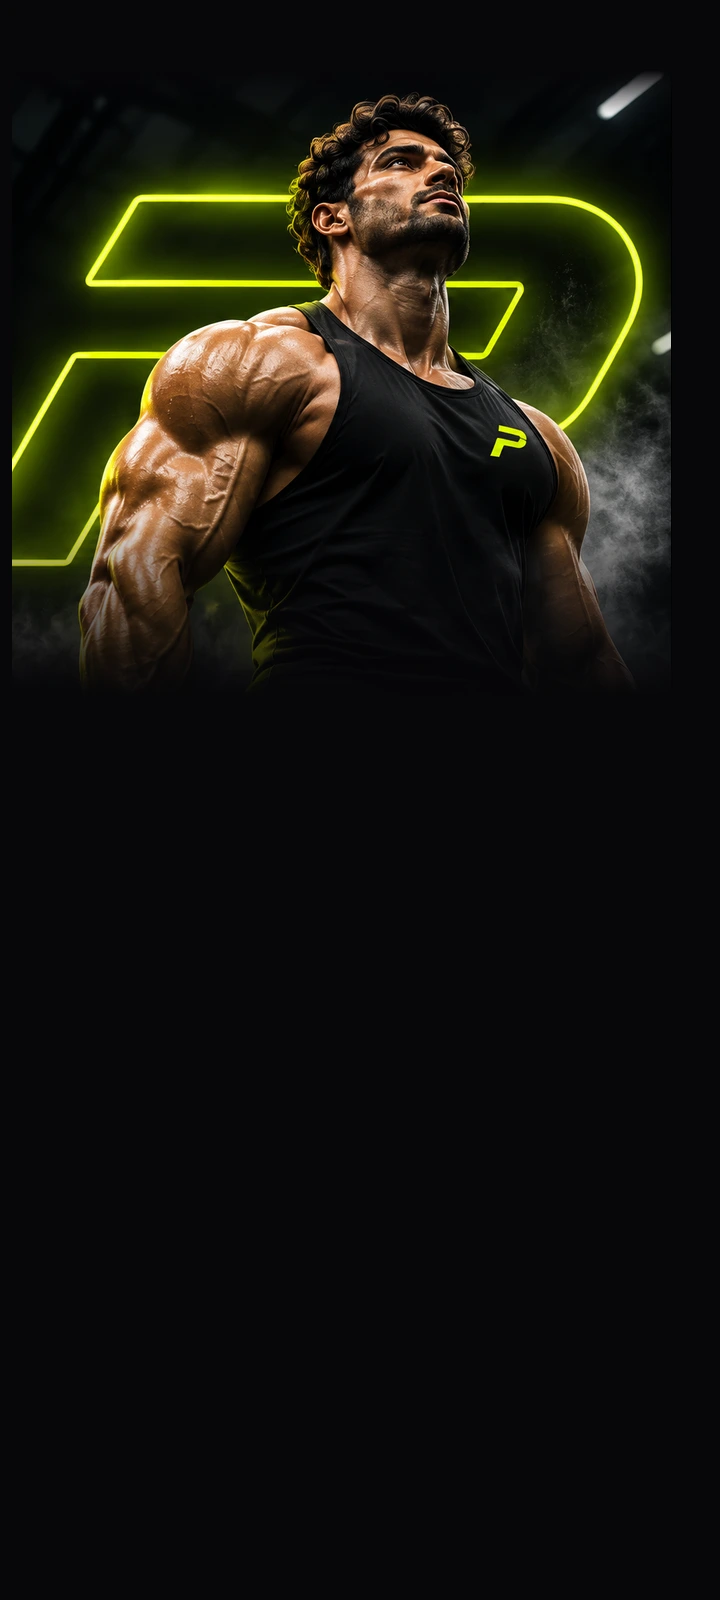
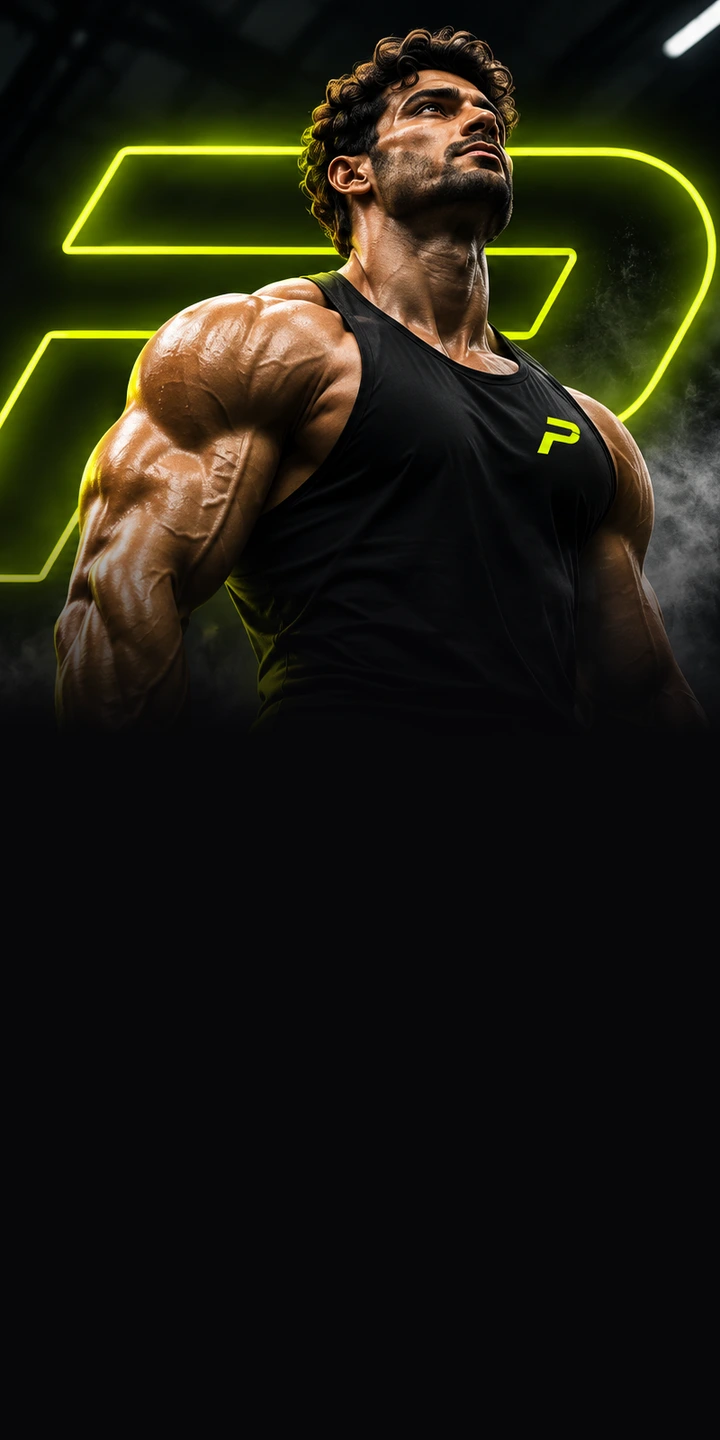
fix(mobile): remove side black pillarboxes and extend hero image edge-to-edge

Changed region(s): [[0.0, 0.0, 1.0, 0.5]]

diff --git a/src/utils/cloudinary.ts b/src/utils/cloudinary.ts
@@ -41,7 +41,7 @@ const CLOUDINARY_CLOUD_NAME =
 const CLOUDINARY_FOLDER = 'peakform';
 
 const ASSET_VERSIONS: Partial<Record<AssetKey, string>> = {
-  heroMobile: 'v1794049695',
+  heroMobile: 'v1794051558',
 };
 
 /**
